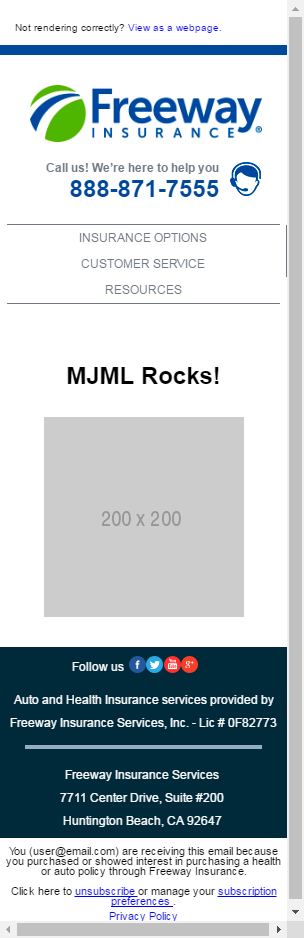
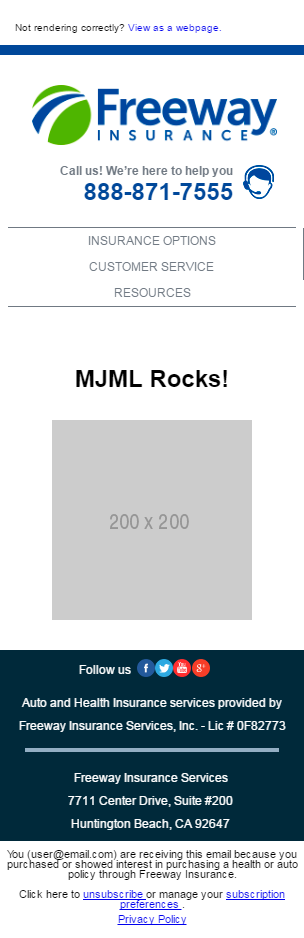
attempt 1 to make border-right in nav to disappear

diff --git a/Template/template.html b/Template/template.html
@@ -42,12 +42,6 @@
 </style>
 <![endif]-->
 <style type="text/css">
-      @media screen and (max-width: 480px) {
-      *[class~=navhide] {
-      border-right: 1px solid #FFFFFF;
-      }
-      }
-    </style><style type="text/css">
   @media only screen and (min-width:480px) {
     .mj-column-per-100 { width:100%!important; }
 .mj-column-per-50 { width:50%!important; }
